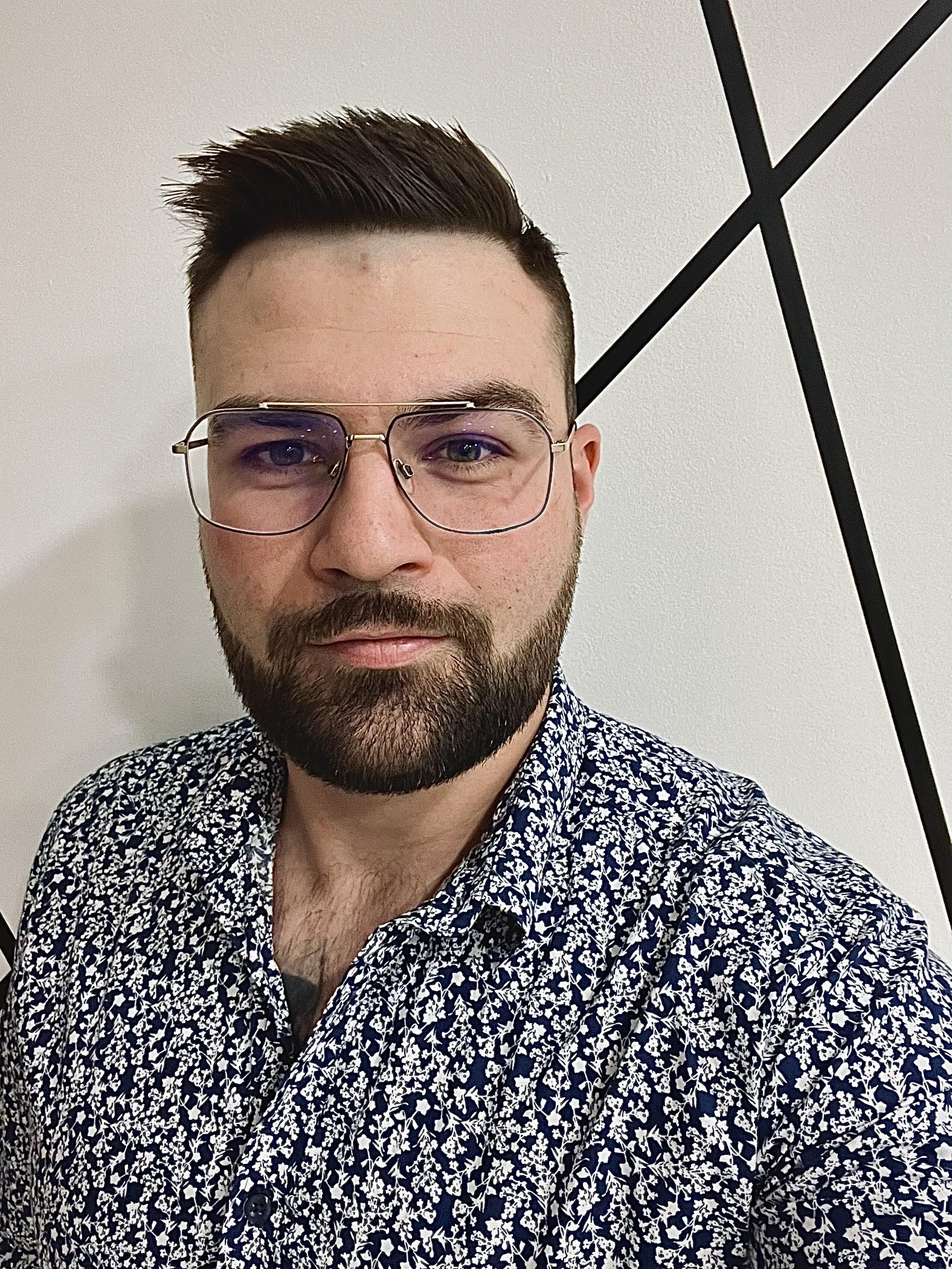
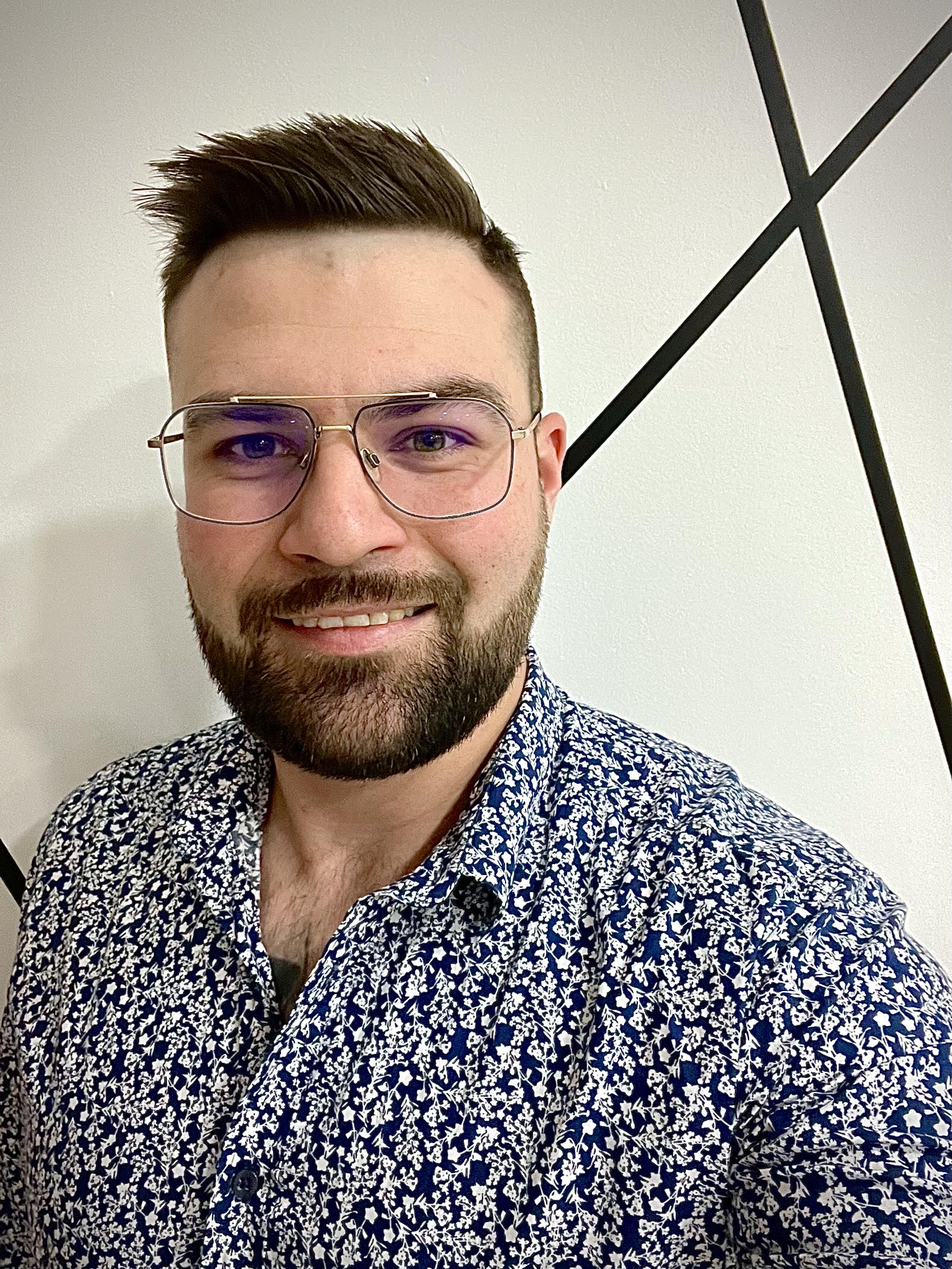
Changed in index.html  section-about img

diff --git a/index.html b/index.html
@@ -49,7 +49,7 @@
             <div class="row">
                 <div class="col-1-of-2">
                     <div class="wrapper">
-                       <img src="img/1664629145606.jpg" alt="Photo" class="wrapper__photo">
+                       <img src="img/portfolio-picture.jpg" alt="Photo" class="wrapper__photo">
                     </div>
                 </div>
             
